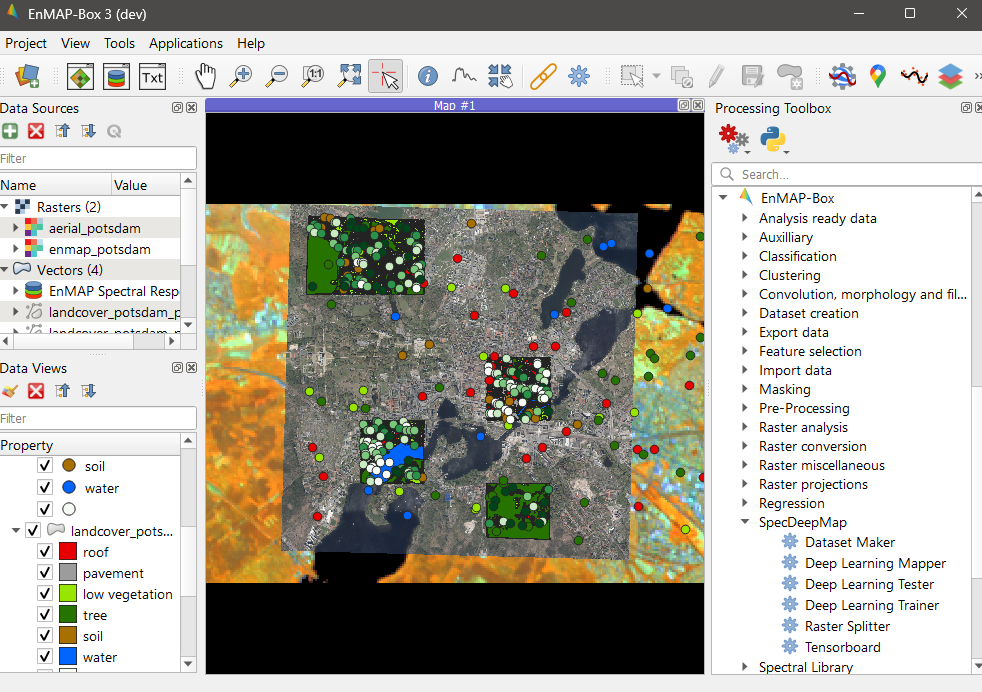
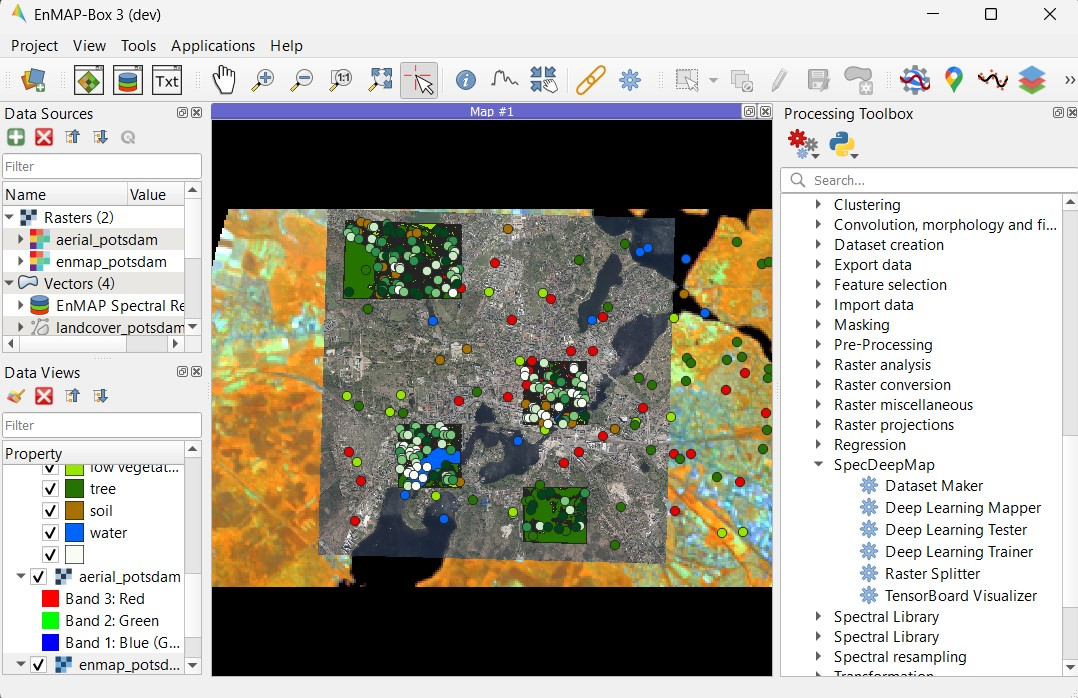
fixed spelling mistake + added note to version 3.16.3 for trainer and updated TensorBoard Visualizer name in images

diff --git a/source/usr_section/application_tutorials/specdeepmap/tutorial_specdeepmap.rst b/source/usr_section/application_tutorials/specdeepmap/tutorial_specdeepmap.rst
@@ -215,6 +215,9 @@ The Deep Learning Trainer algorithm,  trains a deep-learning model in a supervis
 * As **Path for saving model** use the 'specdeepmap_tutorial' folder.
 * Let's run the model.
 
+(IMPORTANT: In version enmapbox 3.16.3 the Trainer runs through, but will give a sys.flush error after running. However the training functions as intended and is by then already completed and all  model checkpoint during training are saved correctly. This error can be therefore ignored as it does not influence the functionality. If you want to avoid this error message open the QGIS python console before running the algorithm and close deep learning trainer interface again and reopen it. This will correctly set the sys parameters. (This can be applied as hotfix until the bug is fixed with the next update with enmapbox-version 3.16.4)
+
+
 During training in the Logger Interface the progress of the training is printed after each epoch. (epoch means one loop through the training dataset). In the logger the train and validation loss is displayed, which should reduce during training and the train IoU and val IoU should increase.
 The model uses the training data for learning the weights and the validation data is just used to check if the model over or underfits (if the train and validation values differ significantly).
 After training the logger displays the best model path for the best model. In general you want to use the model with the highest IoU score on the validation dataset. This is also written into the model file name, so you can find it later again at any time.
